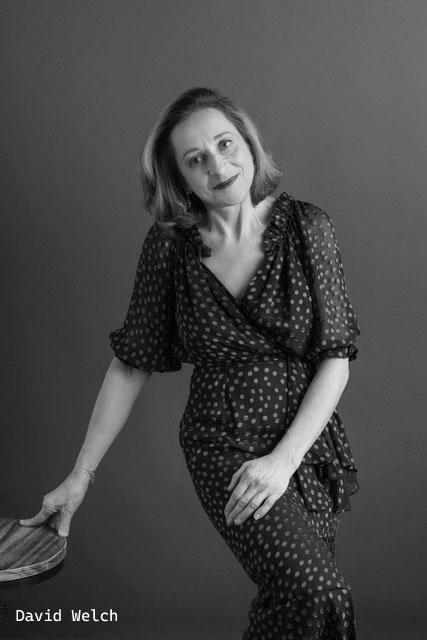
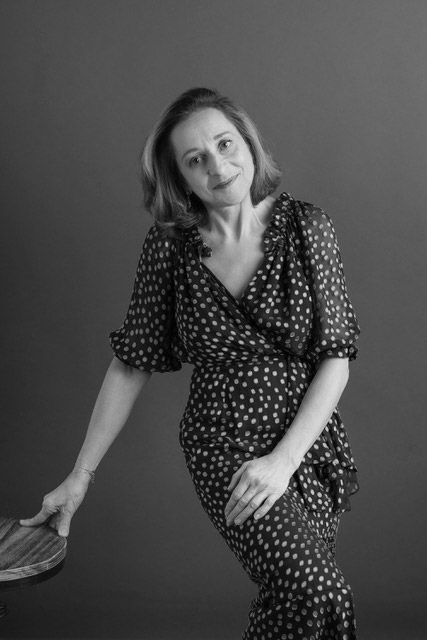
update deploy

diff --git a/executive-life-coaching.html b/executive-life-coaching.html
@@ -132,7 +132,16 @@
 <script src="static/slideshow.js" charset="utf-8"></script>
 <div class="page-content">
   
-<img src="static/valerie.jpg" style="float: left; width: 10em; margin: 0 1em;" />
+<div style="float: left; padding: 0em 0.8em 0 0;">
+<img src="static/valerie.jpg" style="width: 11em;" />
+<a
+href="https://davidwelchphotography.com"
+target="_blank"
+style="display: block; font-size: 0.7em; text-align: left;"
+>
+picture by David Welch
+</a>
+</div>
 <p>
 Coaching is a partnership or alliance between the Client and the Coach in a
 thought-provoking and creative process that inspires the Client to maximize
@@ -150,7 +159,7 @@ I offer sessions in-person, on Zoom, Face Time and on the phone. We
 will start with a free initial assessment to clearly define your short and
 long term goals, everything from communication skills to personal acceptance.
 We will use these goals as a foundation to create a strategy for attaining
-these objectives.<br>
+these objectives.
 <a onclick="Calendly.initPopupWidget({url:
                'https://calendly.com/valeriedscoach/30min'});return false;"
    href="">Schedule a free intro session</a>

diff --git a/about.html b/about.html
@@ -95,8 +95,17 @@ Strategies</em>, <em>AXA-The Equitable Life Insurance</em>, <em>American Express
 <em>American Media Inc.</em>, <em>Corcoran Real Estate</em>, <em>Colgate-Palmolive</em>, <em>First
 Republic Bank</em>, <em>Roche-Bobois</em>, <em>Head&amp;Hand PR</em>, to name a few, plus many
 entrepreneurs and individuals from all backgrounds.</p>
-<p><img src="static/valerie2.jpg" style="width: 15em; float: right; padding:
-0em 0.8em;" /></p>
+<div style="float: right; padding: 0em, 0.8em;">
+<img src="static/valerie2.jpg" style="width: 15em;" />
+<a
+href="https://davidwelchphotography.com"
+target="_blank"
+style="display: block; font-size: 0.7em; text-align: right;"
+>
+picture by David Welch
+</a>
+</div>
+
 <p>The scope of Valérie's coaching is broad in nature yet tailored to each client.
 When relating to companies and organizations, her main focus includes
 leadership, culture and branding, communication and management skills. She

diff --git a/index.html b/index.html
@@ -132,7 +132,16 @@
 <script src="static/slideshow.js" charset="utf-8"></script>
 <div class="page-content">
   
-<img src="static/valerie-bw.jpg" style="float: left; width: 11em; margin: 0 2em 0 1em;" />
+<div style="float: left; padding: 0em 2em 0 0;">
+<img src="static/valerie-bw.jpg" style="width: 11em;" />
+<a
+href="https://davidwelchphotography.com"
+target="_blank"
+style="display: block; font-size: 0.7em; text-align: left;"
+>
+picture by David Welch
+</a>
+</div>
 <p>
 <ul>
   <li>Leadership and Management Skills</li>
